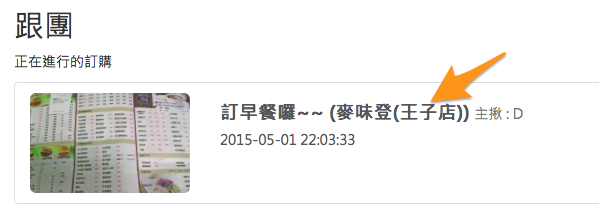
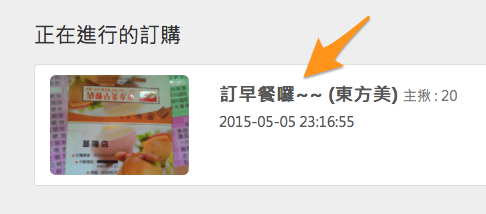
home layout

Changed region(s): [[0.0, 0.0841, 1.0, 0.8972], [0.0, 0.0561, 0.3704, 0.2243]]

diff --git a/app/views/order/show.blade.php b/app/views/order/show.blade.php
@@ -77,7 +77,7 @@
 
 		<div>
 			@if (count($missions) > 0)
-				<h2>跟團</h2>
+			<div class="jumbotron">
 				<p>正在進行的訂購</p>
 				<div class='list-group'>						
 					@foreach($missions as $mission)
@@ -101,6 +101,7 @@
 					</a>					
 					@endforeach
 				</div>
+			</div>
 			@else
 				<div class="jumbotron">
 					<h2>目前沒有進行中的訂購</h2>
@@ -110,9 +111,10 @@
 			@endif
 		</div>
 		<div>
-			<h2>歷史訂單</h2>
-			<p>以前的訂購資訊</p>
-			<div class='list-group'>						
+			<h4 class="btn btn-lg" data-toggle="collapse" data-target="#history-missions"
+				>歷史訂單 <small>以前的訂購資訊 <span class="caret"></span></small></h4>
+			
+			<div class='list-group collapse' id="history-missions">						
 				@foreach($historyMissions as $mission)
 				<a class='list-group-item' href='{{ URL::to("order/$mission->id") }}'>
 					<div class="row">
